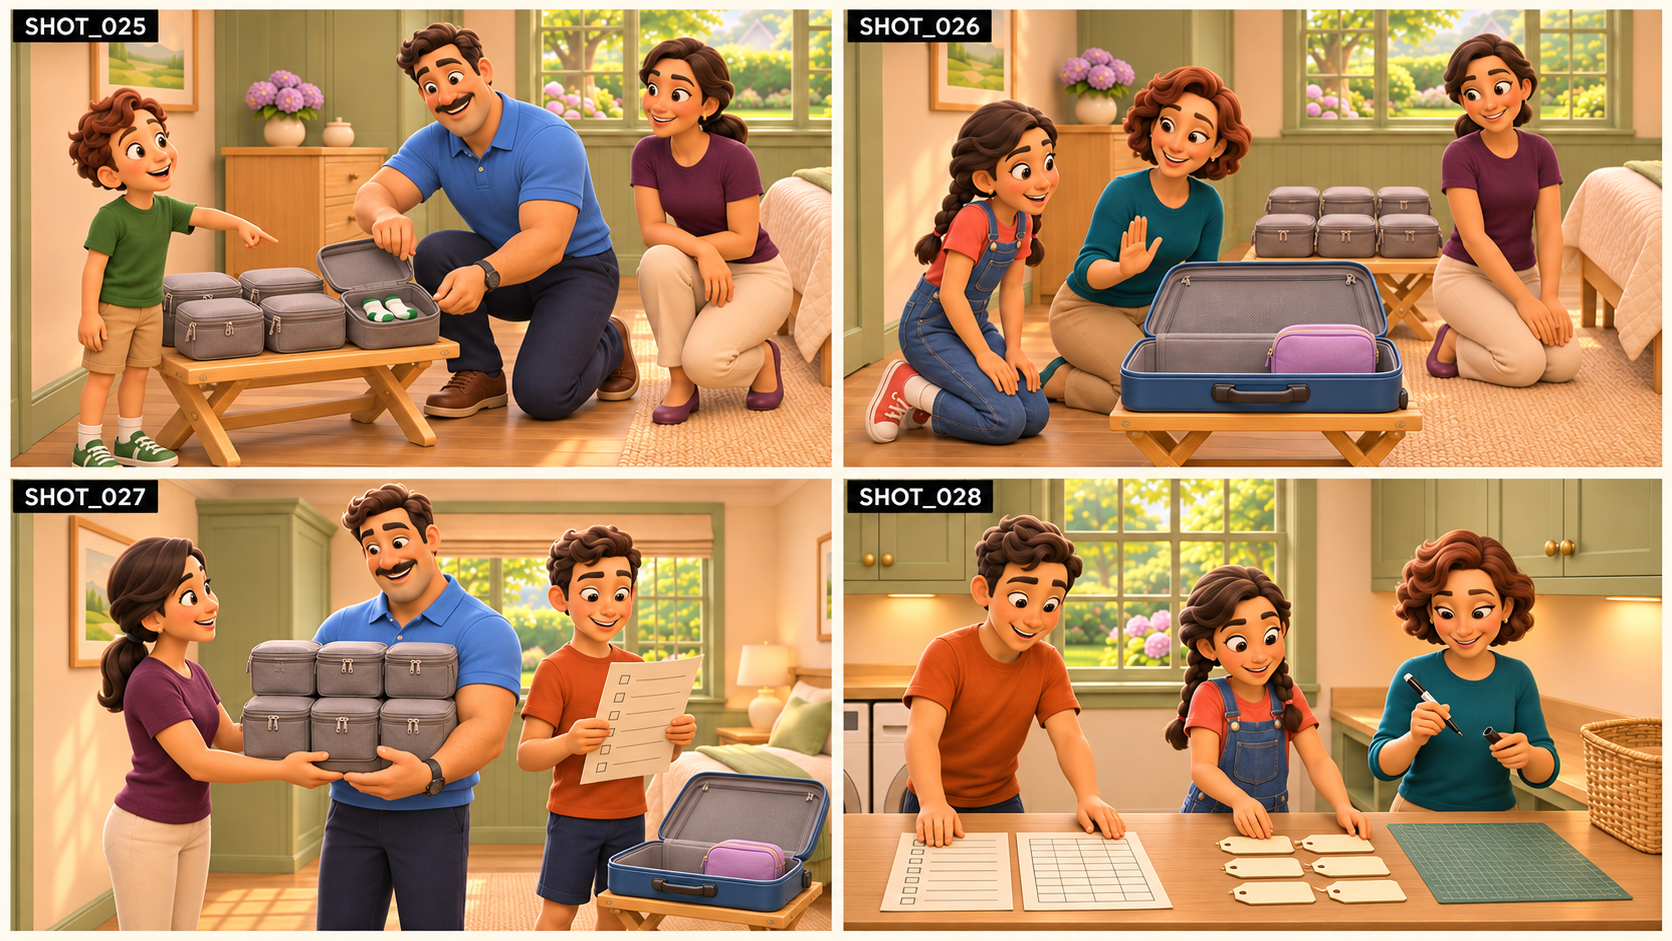
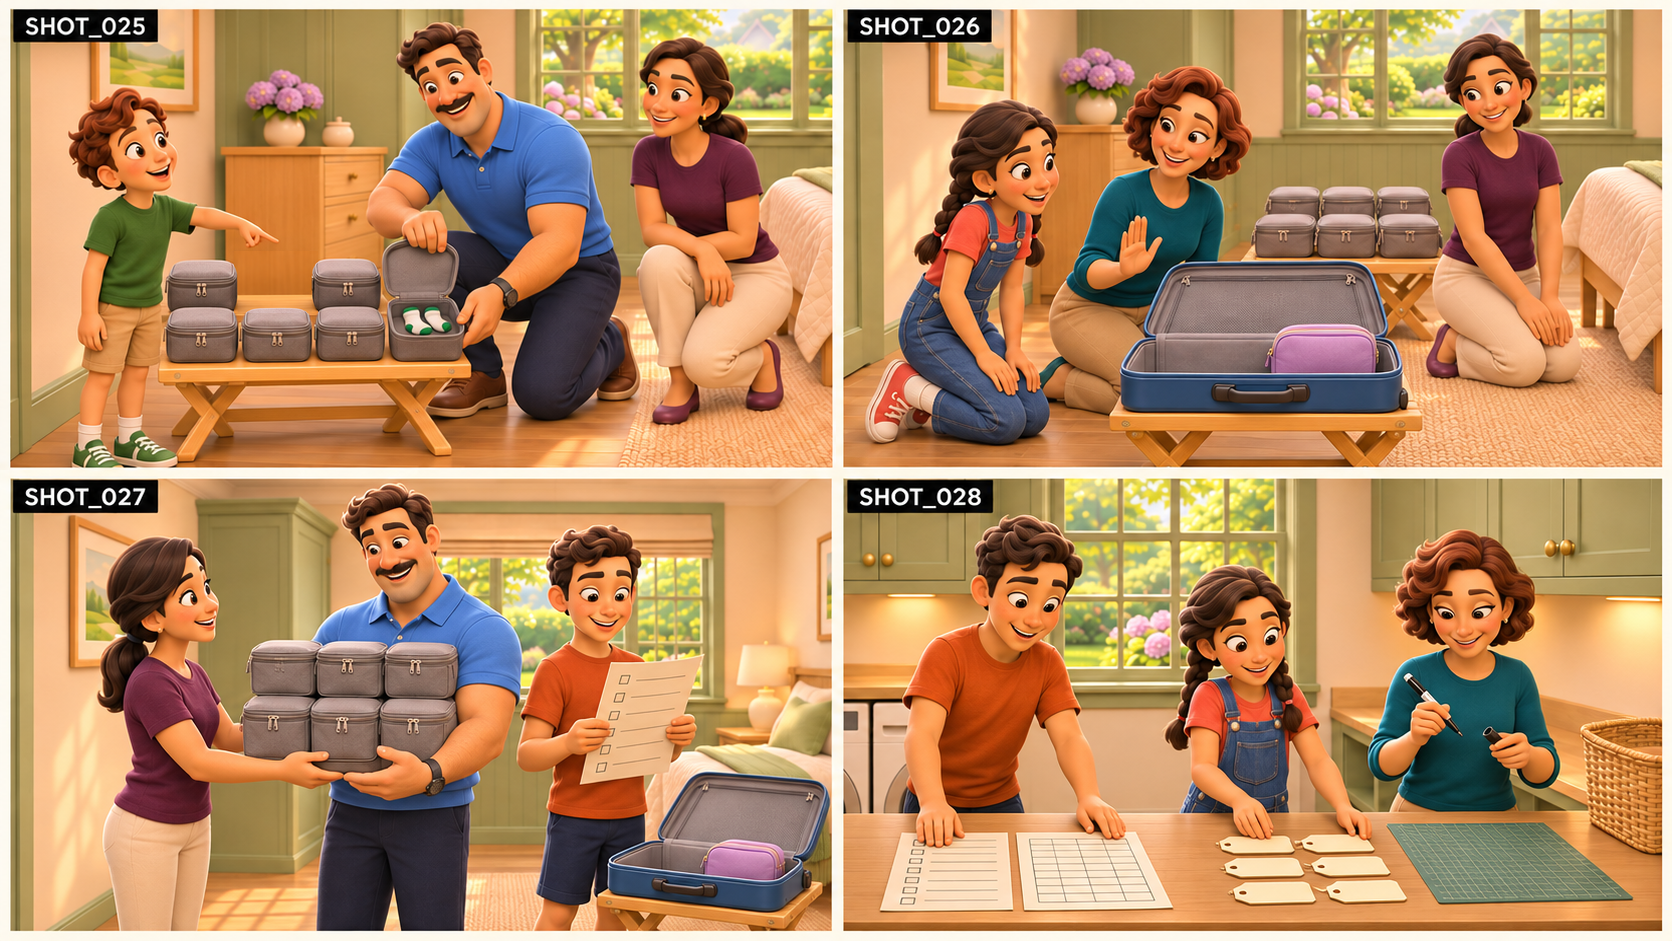
Repair Episode 08 storyboard 07: six gift cubes

diff --git a/docs/STORYBOARD_REPAIR_LOG.md b/docs/STORYBOARD_REPAIR_LOG.md
@@ -33,7 +33,8 @@ The active request is to fix the selected storyboard PNGs themselves. Video-prom
 | 05 / BOARD_16 | Restored capped water bottles and one partly eaten sandwich portion per visible diner across 061–064. Dan’s plate stays on the blanket. | [Selected sheet](../Episode_05/assets/storyboards/BOARD_16.png) · [Correction record](../artwork_qa/records/ep05-board16-picnic-bottles-and-portions.json) |
 | 06 / BOARD_05 | Restored the three menu sections and the $12, $14 and $8 choices. The left-side family grouping in 017 is correct; empty or misplaced chairs still need reframing. | [Selected sheet](../Episode_06/assets/storyboards/BOARD_05.png) · [Correction record](../artwork_qa/records/ep06-board05-restaurant-menu-and-chairs.json) |
 | 07 / BOARD_10 | Dan holds Max’s hand before the family steps off the bakery curb. The later crossing and library-side panels retain their published pixels. | [Selected sheet](../Episode_07/assets/storyboards/BOARD_10.png) · [Correction record](../artwork_qa/records/ep07-board10-curbside-handhold.json) |
+| 08 / BOARD_07 | Shot 025 now shows five closed fabric cubes and one open cube with Max’s intact green-heeled pair. Shots 026–028 retain their published pixels. | [Selected sheet](../Episode_08/assets/storyboards/BOARD_07.png) · [Correction record](../artwork_qa/records/ep08-board07-six-gift-cubes.json) |
 
-Current QA inventory: **270 shots with major visual defects; 530 awaiting human review**. Selected repairs remove only the visually verified discrepancies recorded above. Creator acceptance and individual motion-frame approval remain pending. Other storyboard defects have not been declared fixed.
+Current QA inventory: **269 shots with major visual defects; 531 awaiting human review**. Selected repairs remove only the visually verified discrepancies recorded above. Creator acceptance and individual motion-frame approval remain pending. Other storyboard defects have not been declared fixed.
 
 Each selected edit preserves the prior image through its parent Git commit, retains the returned ImageGen source, updates all four panel evidence hashes and records what was visually confirmed. The Episode 01 printed-label audit is refreshed against the new pixels. Corrections are committed and pushed as checkpoints before requesting the next image.

diff --git a/CURRENT_PRODUCTION_STATUS.md b/CURRENT_PRODUCTION_STATUS.md
@@ -4,7 +4,7 @@
 
 The 800 clips have 3,228 dialogue turns across ten 20-minute episodes. Each clip has four or five turns. The provisional speaker windows start at 0.25 seconds and allow the final action or reaction to carry into the cut. Each episode’s screenplay, video prompts and subtitles use the same dialogue. The [episode index](README.md#episodes) links directly to the prompts and each episode’s shot findings.
 
-The [image repair log](docs/STORYBOARD_REPAIR_LOG.md) identifies the selected replacement sheets. Current QA records list 270 major visual discrepancies and 530 shots awaiting human review. [Individual findings](docs/qa/) name the correction and the image hash for each panel. Use the [November 19 audit](docs/AUDIT_EP01_EP10.md) for the earlier review.
+The [image repair log](docs/STORYBOARD_REPAIR_LOG.md) identifies the selected replacement sheets. Current QA records list 269 major visual discrepancies and 531 shots awaiting human review. [Individual findings](docs/qa/) name the correction and the image hash for each panel. Use the [November 19 audit](docs/AUDIT_EP01_EP10.md) for the earlier review.
 
 ## Audit branch validation — 2026-11-19
 
